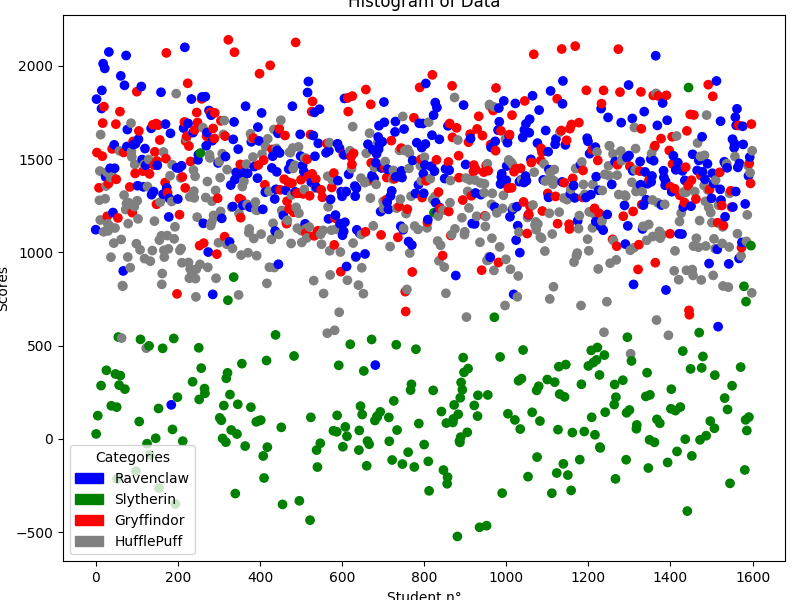
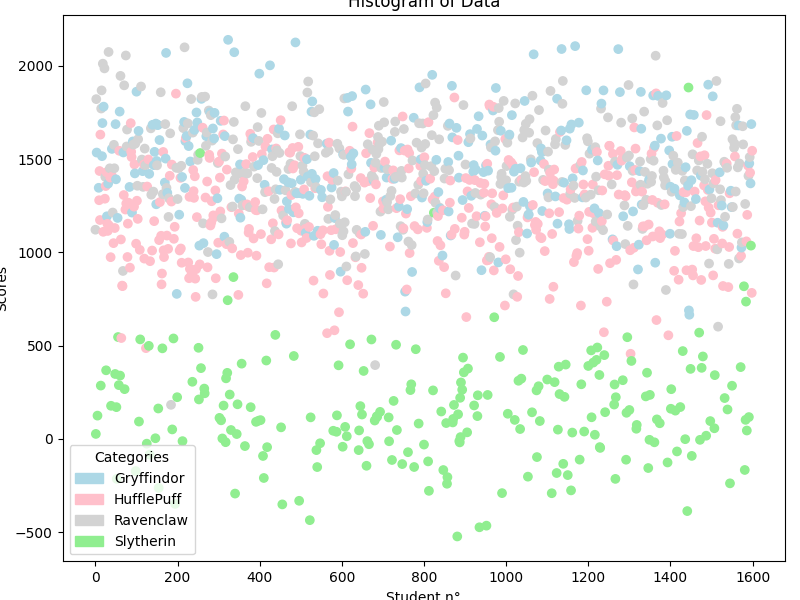
homogenize colours in figures

diff --git a/exercises/scatter_plot.py b/exercises/scatter_plot.py
@@ -22,25 +22,22 @@ def get_scatter_plot(df: DataFrame) -> any:
 
     categories = df.iloc[:, 0].values.tolist()  # Category (color)
 
-    colors = {"Ravenclaw": "blue", "Slytherin": "green",
-              "Gryffindor": "red", "Hufflepuff": "gray"}
+    colors = {"Gryffindor": "lightblue", "Hufflepuff": "pink",
+              "Ravenclaw": "lightgray", "Slytherin": "lightgreen"}
     # Color map for categories
     fig, ax = subplots(figsize=(8, 6))
 
     scatter(xaxis, yaxis, c=[colors[category] for category in categories])
 
     tight_layout()
-    # Define RGB value for gray
-    gray_rgb = (0.5, 0.5, 0.5)
 
-    red_patch = Patch(color='b', label='Ravenclaw')
-    blue_patch = Patch(color='g', label='Slytherin')
-    green_patch = Patch(color='r', label='Gryffindor')
-    # Create a Patch with the gray color
-    gray_patch = Patch(color=gray_rgb, label='HufflePuff')
+    blue_patch = Patch(color='lightblue', label='Gryffindor')
+    pink_patch = Patch(color='pink', label='HufflePuff')
+    gray_patch = Patch(color='lightgray', label='Ravenclaw')
+    green_patch = Patch(color='lightgreen', label='Slytherin')
 
-    legend(title='Categories', handles=[red_patch, blue_patch,
-                                        green_patch, gray_patch])
+    legend(title='Categories', handles=[blue_patch, pink_patch,
+                                        gray_patch, green_patch])
 
     # Add the legend to the plot with custom colors and labels
     xlabel("Student n°")

diff --git a/exercises/pair_plot.py b/exercises/pair_plot.py
@@ -26,7 +26,11 @@ def get_pair_plot(df: DataFrame) -> any:
 
     grouped = DataFrame(table)
 
-    pairplot(grouped, hue=grouped.index[0], palette='Set1',
+    # print(grouped.iloc[:, 0]) stands for houses for all 1600 students.
+    # Below, hue is the name of variable in data:
+    # variable in data to map plot aspects to different colors.
+
+    pairplot(grouped, hue=grouped.index[0], palette=["lightblue", "pink", "lightgray", "lightgreen"],
              markers=["o", "s", "D", "X"])
 
     tight_layout()
